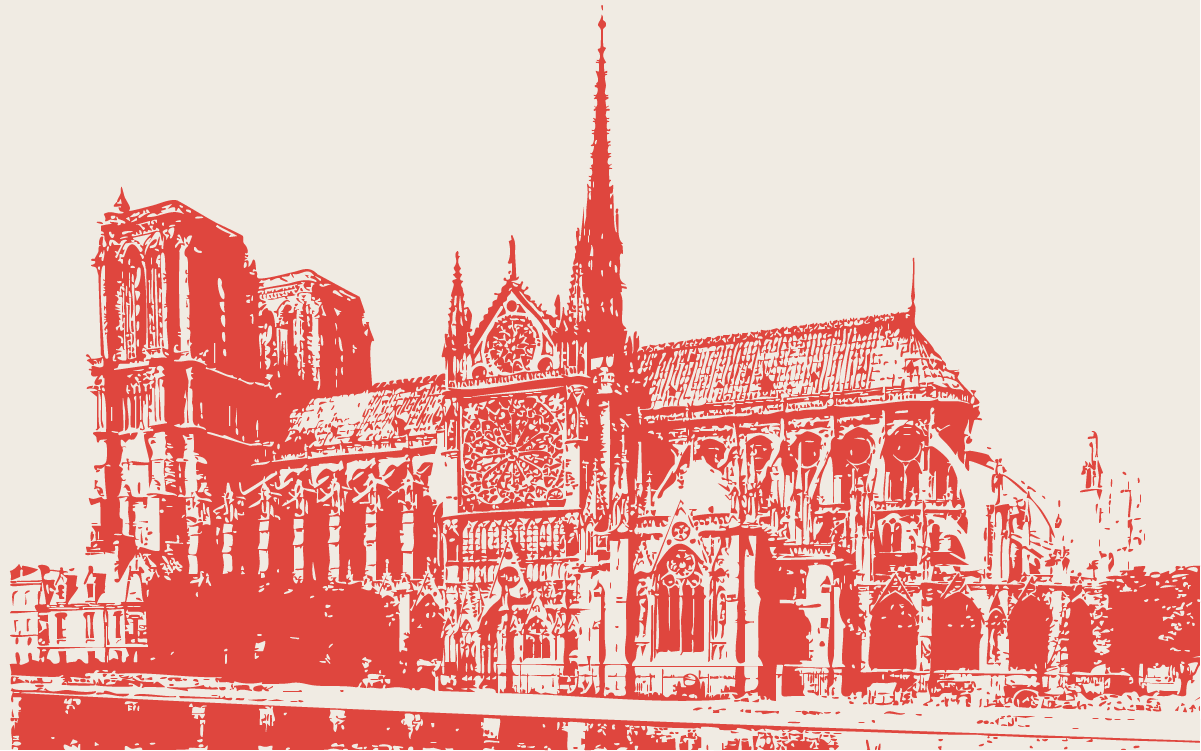
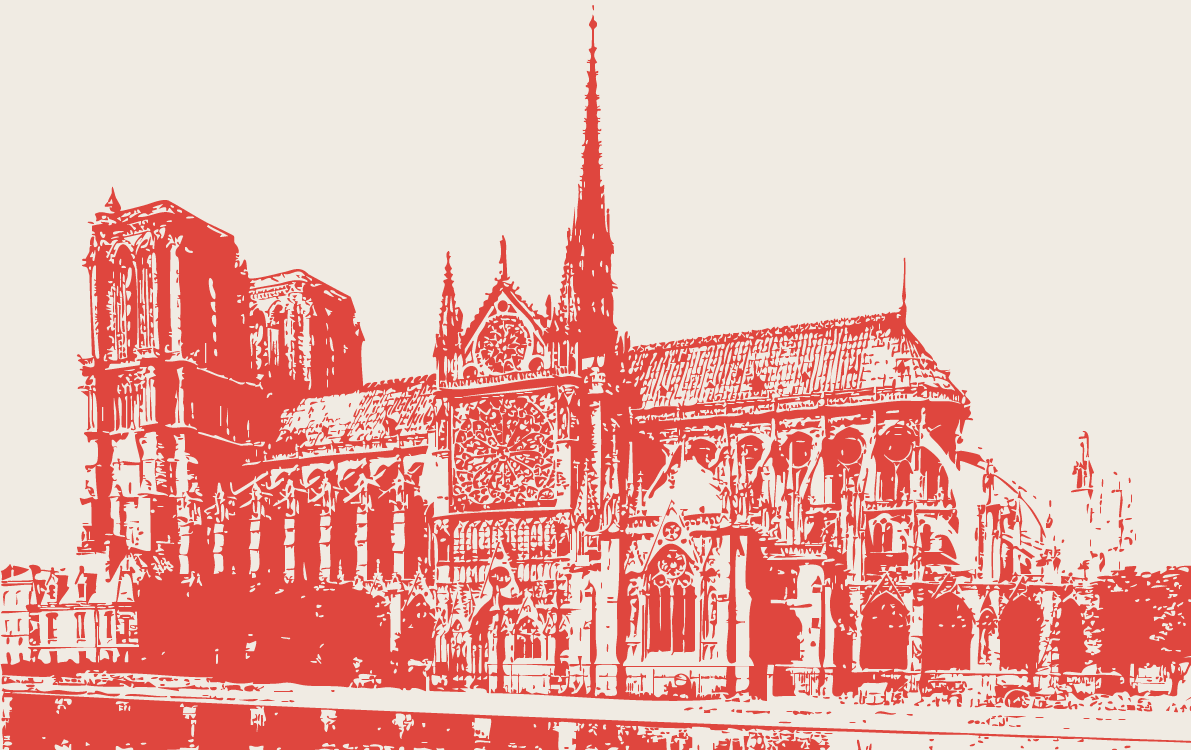
📱 Responsivity of the image and the buttons

Changed region(s): [[0.0, 0.0, 1.0, 1.0]]

diff --git a/pages/index.vue b/pages/index.vue
@@ -4,9 +4,9 @@
     class="bg-dots flex h-screen items-center justify-center bg-[#F0EBE3]"
   >
     <div
-      class="flex max-w-screen-2xl items-center justify-between gap-6 px-16 py-8"
+      class="flex max-w-screen-2xl flex-col items-center justify-between gap-6 px-16 py-8 md:flex-row"
     >
-      <div class="w-1/2">
+      <div class="w-full md:w-1/2">
         <h1 ref="title" class="font-[gebuk] text-6xl">
           Bienvenue dans
           <div
@@ -26,7 +26,9 @@
           rencontre la précision du digital. Chaque projet est une fusion d’art
           et de technologie, pensée pour marquer les esprits.
         </h2>
-        <div class="mt-8 flex flex-row">
+        <div
+          class="mt-8 flex flex-col items-center gap-4 md:items-start lg:flex-row"
+        >
           <button
             ref="contactButton"
             class="overflow-hidden rounded-full bg-[#DF463E] px-6 py-3 font-[TitilliumWeb-SemiBold] text-xl text-white hover:cursor-pointer"
@@ -38,7 +40,7 @@
           <button
             ref="projectsButton"
             style="overflow-clip-margin: 1px"
-            class="relative ml-4 flex items-center justify-center overflow-clip rounded-full border-2 border-[#DF463E] px-6 py-3 font-[TitilliumWeb-SemiBold] text-xl text-[#DF463E] hover:cursor-pointer"
+            class="relative flex items-center justify-center overflow-clip rounded-full border-2 border-[#DF463E] px-6 py-3 font-[TitilliumWeb-SemiBold] text-xl text-[#DF463E] hover:cursor-pointer"
             @mouseenter="animateButtonCircleIn"
             @mouseleave="animateButtonCircleOut"
             @mousemove="moveCircle"
@@ -60,11 +62,11 @@
           </button>
         </div>
       </div>
-      <div class="w-1/2">
+      <div class="mt-8 w-full md:mt-0 md:w-1/2">
         <NuxtImg
           src="/images/Notre-Dame-De-Paris.png"
           alt="Notre-Dame de Paris"
-          class="h-full w-full overflow-hidden rounded-xl object-cover"
+          class="h-auto w-full max-w-full overflow-hidden rounded-xl object-contain"
         />
       </div>
     </div>
